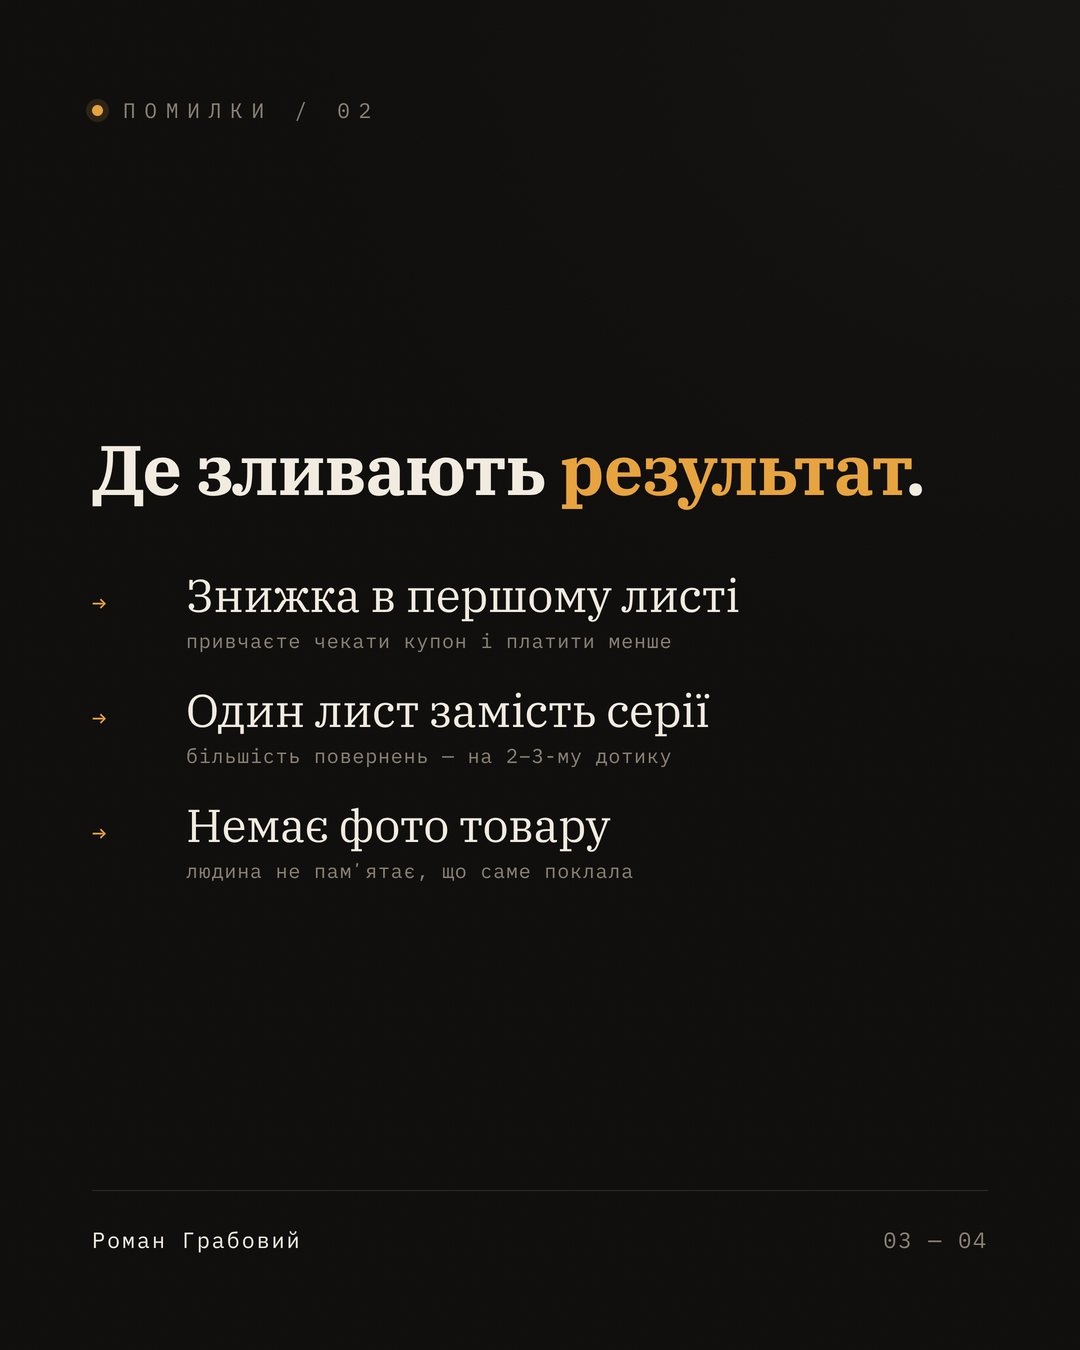
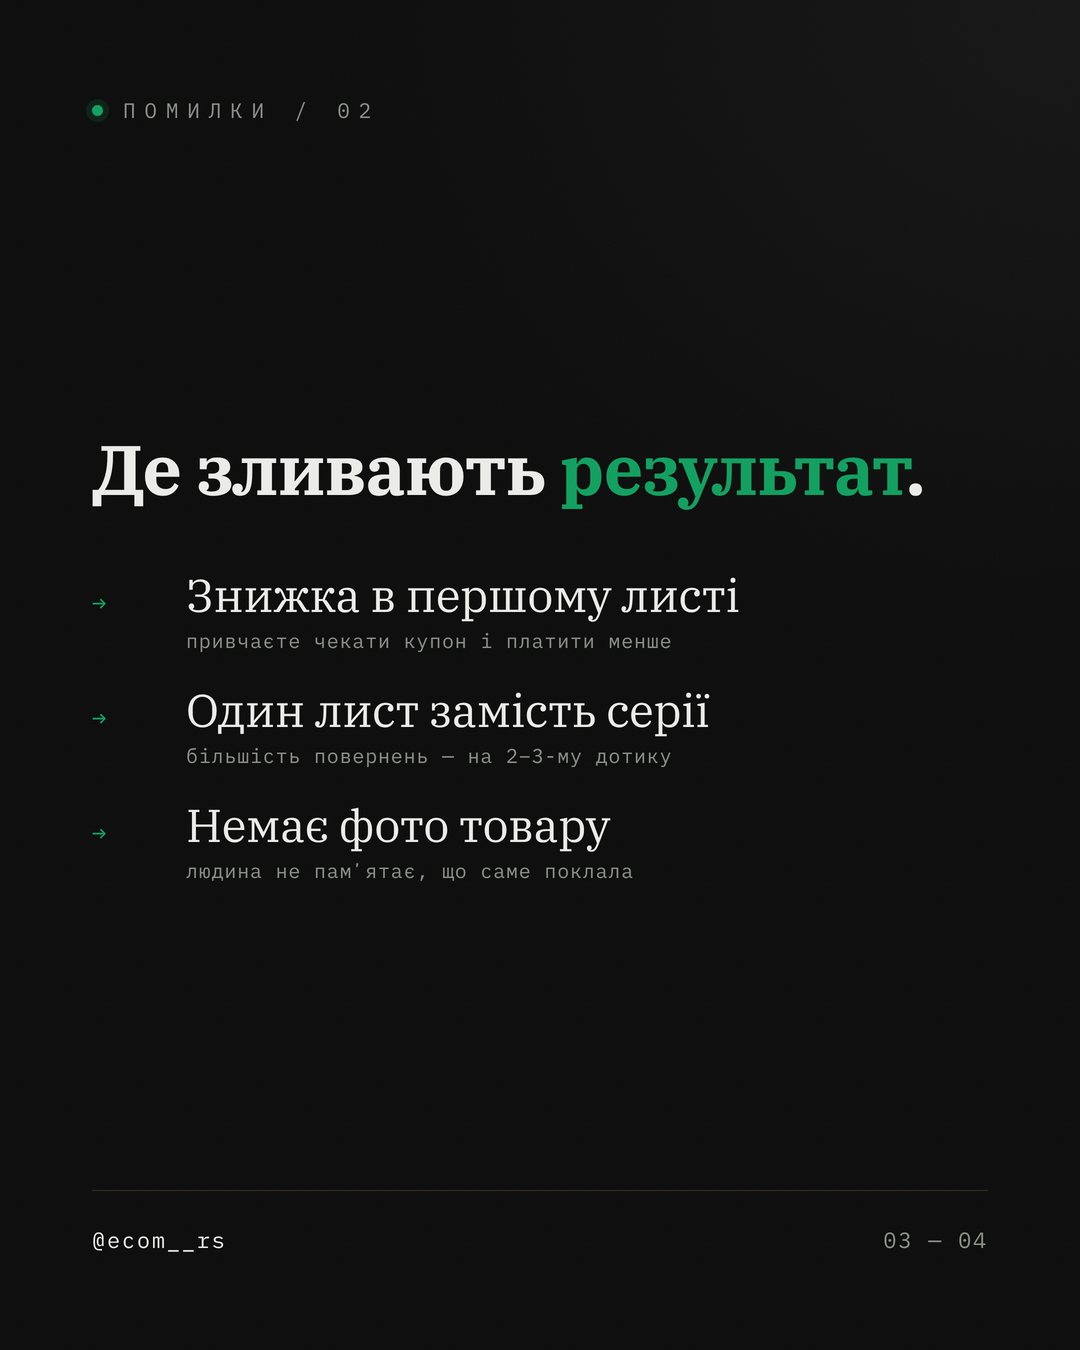
ecomrs: brand-color slides, no personal name on images; rebuild 2026-11-03

diff --git a/build_slides.py b/build_slides.py
@@ -6,8 +6,8 @@ Usage:
 
 content.json schema:
 {
-  "handle": "Роман Грабовий",          # footer left label
-  "footer_email": "roman.ret.mark@gmail.com",  # footer on last slide
+  "handle": "@ecom__rs",               # footer left label (бренд-хендл, НЕ особисте імʼя)
+  "footer_email": "",                   # лишай порожнім — НЕ писати особистий email на слайдах
   "slides": [
      # kind "cover":
      {"kind":"cover","label":"KLAVIYO · EMAIL · RETENTION",
@@ -32,8 +32,12 @@ from playwright.sync_api import sync_playwright
 HERE = os.path.dirname(os.path.abspath(__file__))
 FONTDIR = os.path.join(HERE, "fonts")
 
-INK="#0d0c0b"; INK2="#141210"; PAPER="#f3ece1"; MUTE="#8a8073"; AMBER="#e8a33d"
-LINE="rgba(243,236,225,0.12)"
+# ECOMRS brand palette (ТІЛЬКИ бренд-кольори):
+# фон графіт/чорний, акцент — зелений смарагд (носій уваги), золото — лише тонкі лінії/дрібні деталі.
+INK="#0c0c0c"; INK2="#161616"; PAPER="#ececea"; MUTE="#8a8f88"
+AMBER="#10a060"   # зелений смарагд — головний акцент (виділені слова, цифри, стрілки)
+GOLD="#c8a24c"    # золото — лише тонкі канти/лінії
+LINE="rgba(200,162,76,0.22)"
 
 def b64(name):
     with open(os.path.join(FONTDIR, name), "rb") as f:
@@ -78,7 +82,7 @@ html,body{{width:1080px;height:1350px;}}
 .toplabel{{font-family:'PlexMono';font-weight:400;font-size:21px;letter-spacing:0.42em;
   color:{MUTE};text-transform:uppercase;display:flex;align-items:center;gap:20px;}}
 .toplabel .dot{{width:11px;height:11px;border-radius:50%;background:{AMBER};
-  box-shadow:0 0 0 6px rgba(232,163,61,0.14);display:inline-block;flex:0 0 auto;}}
+  box-shadow:0 0 0 6px rgba(16,160,96,0.14);display:inline-block;flex:0 0 auto;}}
 .rule{{height:1px;background:{LINE};width:100%;}}
 .mid{{flex:1;display:flex;flex-direction:column;justify-content:center;}}
 .h1{{font-family:'PlexSerif';font-weight:700;color:{PAPER};letter-spacing:-0.015em;}}
@@ -149,7 +153,7 @@ def main():
     out=sys.argv[2] if len(sys.argv)>2 else "out"
     os.makedirs(out, exist_ok=True)
     slides=content["slides"]; total=len(slides)
-    handle=content.get("handle","Роман Грабовий"); email=content.get("footer_email","")
+    handle=content.get("handle","@ecom__rs"); email=content.get("footer_email","")
     pages=[]
     for i,s in enumerate(slides):
         inner=RENDER[s["kind"]](s)
